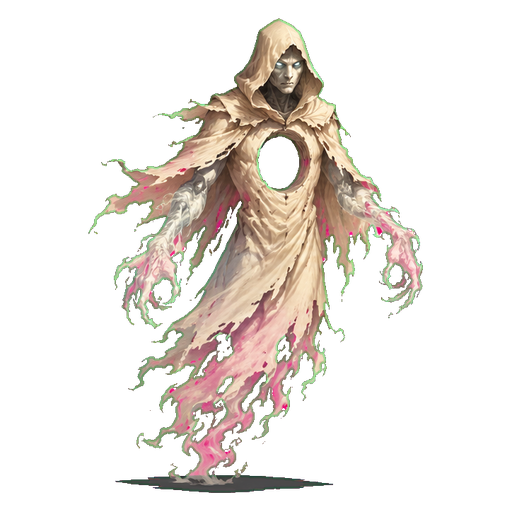
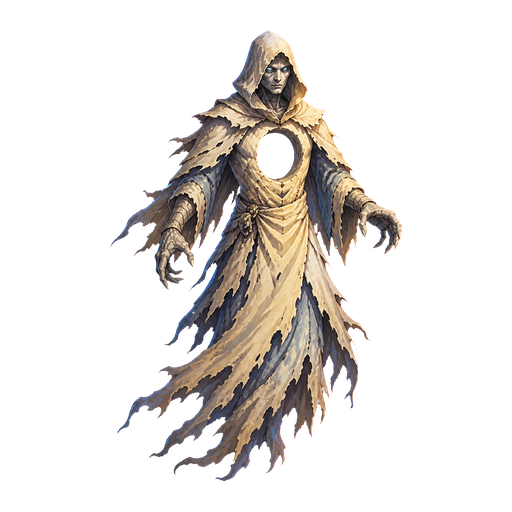
Add complete realm character artwork

Changed region(s): [[0.1875, 0.0312, 0.8438, 0.9688], [0.2188, 0.8125, 0.25, 0.8438], [0.1562, 0.4375, 0.1875, 0.4688]]

diff --git a/public/index.html b/public/index.html
@@ -148,6 +148,16 @@ body{
   box-shadow:0 6px 0 rgba(0,0,0,.3);position:relative;overflow:hidden;
 }
 .realm-hero .big{font-size:54px;display:block;filter:drop-shadow(0 4px 4px rgba(0,0,0,.3))}
+.realm-character{display:inline-flex;align-items:center;justify-content:center;position:relative;isolation:isolate;vertical-align:middle}
+.realm-character-emoji{position:absolute;inset:0;z-index:0;display:flex;align-items:center;justify-content:center;line-height:1}
+.realm-character-image{position:absolute;inset:0;z-index:1;opacity:0;background-image:var(--realm-character-art);background-repeat:no-repeat;background-position:center;background-size:contain;transition:opacity .12s}
+.realm-character.art-ready .realm-character-image{opacity:1}
+.realm-character.art-ready .realm-character-emoji{visibility:hidden}
+.realm-character-probe{display:none}
+.realm-bubble .realm-character{width:72px;height:72px;font-size:30px}
+.realm-hero .realm-character.big{width:132px;height:132px;margin:0 auto;display:flex;font-size:54px}
+.shop-item .em .realm-character{width:54px;height:54px;font-size:28px}
+.avatar-line .realm-character,.citem.deco .realm-character{width:44px;height:44px;font-size:28px}
 .realm-hero h2{font-family:var(--display);font-size:26px;font-weight:800;margin:4px 0 2px}
 .realm-hero .fam{font-weight:800;opacity:.9}
 .strategy-box{
@@ -564,6 +574,14 @@ const REALMS = {
      hint:(a,b)=>{const n=a===7?b:a;return `Split it! Five ${n}s = ${n*5}, two ${n}s = ${n*2}. ${n*5} + ${n*2} = <b>${n*7}</b>`}},
 };
 
+/* Keep the emoji underneath until the transparent PNG has loaded successfully. */
+function realmCharacter(fam, cls=''){
+  const r=REALMS[fam];
+  if(!r) return '<span class="realm-character"><span class="realm-character-emoji">❓</span></span>';
+  const art=`art/realm/pet-${fam}.png`;
+  return `<span class="realm-character ${cls}" role="img" aria-label="${r.petName}" style="--realm-character-art:url('${art}')"><span class="realm-character-emoji" aria-hidden="true">${r.pet}</span><span class="realm-character-image" aria-hidden="true"></span><img class="realm-character-probe" src="${art}" alt="" onload="this.parentElement.classList.add('art-ready')" onerror="this.remove()"></span>`;
+}
+
 /* ---------- camp build grid ---------- */
 const CAMP_COLS = 10, CAMP_ROWS = 6;
 const DUPE_PRICE = 20;
@@ -959,7 +977,7 @@ function renderMap(){
     const node=document.createElement('div');
     node.className=`realm-node ${i%2===0?'left':'right'} ${isUnlocked?'':'locked'} ${isHere?'here':''}`;
     node.innerHTML=`
-      <div class="realm-bubble" style="background:${r.color}">${isUnlocked?r.pet:'🔒'}
+      <div class="realm-bubble" style="background:${r.color}">${isUnlocked?realmCharacter(fam):'🔒'}
         ${state.realms[fam].conquered?'<div class="badge">✓</div>':''}
       </div>
       <div class="meta">
@@ -998,7 +1016,7 @@ function openRealm(fam){
   $('realm-title-top').textContent=r.name;
   $('realm-body').innerHTML=`
     <div class="realm-hero" style="background:linear-gradient(160deg, ${r.color}, ${r.color}CC)">
-      <span class="big">${r.pet}</span>
+      ${realmCharacter(fam,'big')}
       <h2>${r.name}</h2>
       <div class="fam">The ×${fam} family • ${r.petName}</div>
       <div class="strategy-box">🧠 <b>Realm secret:</b> ${r.strategy}</div>
@@ -1610,15 +1628,16 @@ const SHOP = [
   {id:'bigtent',type:'camp',em:'🎪',name:'Festival Tent',price:150,x:8,y:54},
 ];
 function realmBuddies(){
-  return REALM_ORDER.map(f=>({id:'pet'+f,type:'buddy',em:REALMS[f].pet,name:REALMS[f].petName.split(' the ')[0],price:0,fam:f,locked:!state.realms[f].conquered}));
+  return REALM_ORDER.map(f=>({id:'pet'+f,type:'buddy',em:REALMS[f].pet,art:`art/realm/pet-${f}.png`,name:REALMS[f].petName.split(' the ')[0],price:0,fam:f,locked:!state.realms[f].conquered}));
 }
 function avatarStr(){
   const hat=SHOP.find(i=>i.id===state.equipped.hat);
   let buddy=SHOP.find(i=>i.id===state.equipped.buddy);
   if(!buddy && state.equipped.buddy && state.equipped.buddy.startsWith('pet')){
-    const f=+state.equipped.buddy.slice(3); if(REALMS[f]) buddy={em:REALMS[f].pet};
+    const f=+state.equipped.buddy.slice(3); if(REALMS[f]) buddy={em:REALMS[f].pet,fam:f};
   }
-  return `${hat?hat.em:''}🧗${buddy?' '+buddy.em:''}`;
+  const buddyVisual=buddy?(buddy.fam!==undefined?realmCharacter(buddy.fam):buddy.em):'';
+  return `${hat?hat.em:''}🧗${buddyVisual?' '+buddyVisual:''}`;
 }
 /* ---------- placeable pieces ---------- */
 function allPieces(){
@@ -1859,7 +1878,7 @@ function renderCamp(){
     const pr = i.locked ? '🔒 Conquer realm' : isOwned ? (equipped?'Equipped ✓':'Tap to equip') : `💎 ${i.price}`;
     return `<button class="shop-item ${isOwned?'owned':''} ${equipped?'equipped':''} ${cant?'cant':''}"
       onclick="shopTap('${i.id}','${i.type}',${i.price},${!!i.locked})">
-      <span class="em">${i.em}</span><span class="nm">${i.name}</span><span class="pr">${pr}</span></button>`;
+      <span class="em">${i.fam!==undefined?realmCharacter(i.fam):i.em}</span><span class="nm">${i.name}</span><span class="pr">${pr}</span></button>`;
   };
   const renderPiece=(p)=>{
     const free=pieceFree(p.id), out=piecePlaced(p.id);

diff --git a/test/headless.js b/test/headless.js
@@ -163,6 +163,7 @@ async function boot(saveObj) {
     'camp-trophy-x8.png':[192,192], 'camp-trophy-x7.png':[384,384],
     'camp-trophy-summit.png':[192,192],
   };
+  const realmCharacters=Object.fromEntries(Array.from({length:13},(_,f)=>[`pet-${f}.png`,[512,512]]));
   const pngInfo=name=>{
     const buf=fs.readFileSync(require('path').join(PUBLIC,'art','camp',name));
     return {w:buf.readUInt32BE(16),h:buf.readUInt32BE(20),colorType:buf[25]};
@@ -207,12 +208,25 @@ async function boot(saveObj) {
      }));
   ok('all thirteen Batch 5 trophy sprites are RGBA PNGs',
      Object.keys(batch5).every(n=>pngInfo(n).colorType===6));
+  const realmPngInfo=name=>{
+    const buf=fs.readFileSync(require('path').join(PUBLIC,'art','realm',name));
+    return {w:buf.readUInt32BE(16),h:buf.readUInt32BE(20),colorType:buf[25]};
+  };
+  ok('all thirteen realm character files exist at the locked 512px square size',
+     Object.entries(realmCharacters).every(([name,size])=>{
+       const p=require('path').join(PUBLIC,'art','realm',name);
+       if(!fs.existsSync(p)) return false;
+       const info=realmPngInfo(name); return info.w===size[0] && info.h===size[1];
+     }));
+  ok('all thirteen realm characters are transparent RGBA PNGs',
+     Object.keys(realmCharacters).every(n=>realmPngInfo(n).colorType===6));
   const swSource=fs.readFileSync(require('path').join(PUBLIC,'sw.js'),'utf8');
   ok('offline shell pre-caches every Batch 1 asset', Object.keys(batch1).every(n=>swSource.includes(`./art/camp/${n}`)));
   ok('offline shell pre-caches every Batch 2 asset', Object.keys(batch2).every(n=>swSource.includes(`./art/camp/${n}`)));
   ok('offline shell pre-caches every Batch 3 asset', Object.keys(batch3).every(n=>swSource.includes(`./art/camp/${n}`)));
   ok('offline shell pre-caches every Batch 4 asset', Object.keys(batch4).every(n=>swSource.includes(`./art/camp/${n}`)));
   ok('offline shell pre-caches every Batch 5 asset', Object.keys(batch5).every(n=>swSource.includes(`./art/camp/${n}`)));
+  ok('offline shell pre-caches every realm character', Object.keys(realmCharacters).every(n=>swSource.includes(`./art/realm/${n}`)));
   ok('runtime cache never stores missing future-batch art', swSource.includes('if (res.ok)'));
   fresh.win.showScreen('screen-camp');
   ok('first camp visit grants the free starter pair',
@@ -469,6 +483,11 @@ async function boot(saveObj) {
   const tentVisual = win.pieceVisual('shelter-2');
   ok('piece markup keeps an emoji fallback', tentVisual.includes('⛺'));
   ok('piece markup points at the stable semantic PNG', tentVisual.includes('art/camp/camp-shelter-t2.png'));
+  const poofVisual = ev('realmCharacter(0)');
+  ok('realm character markup keeps an emoji fallback', poofVisual.includes('👻'));
+  ok('realm character markup points at the stable semantic PNG', poofVisual.includes('art/realm/pet-0.png'));
+  ev("state.equipped.buddy='pet1'");
+  ok('equipped realm buddy uses its PNG-backed character markup', ev('avatarStr()').includes('art/realm/pet-1.png'));
 
   ev("state.placed=[{t:'shelter-2',x:0,y:0,k:false},{t:'ground-stone-path',x:5,y:4,k:false},{t:'fire-2',x:1,y:2,k:false},{t:'light-1',x:0,y:4,k:false}]");
   win.renderCamp();

diff --git a/public/sw.js b/public/sw.js
@@ -1,5 +1,5 @@
 /* Times Quest service worker — offline-first app shell */
-const CACHE = 'times-quest-v14';
+const CACHE = 'times-quest-v15';
 const SHELL = [
   './',
   './index.html',
@@ -8,6 +8,19 @@ const SHELL = [
   './icons/icon-512.png',
   './icons/icon-maskable-512.png',
   './icons/apple-touch-icon.png',
+  './art/realm/pet-0.png',
+  './art/realm/pet-1.png',
+  './art/realm/pet-2.png',
+  './art/realm/pet-3.png',
+  './art/realm/pet-4.png',
+  './art/realm/pet-5.png',
+  './art/realm/pet-6.png',
+  './art/realm/pet-7.png',
+  './art/realm/pet-8.png',
+  './art/realm/pet-9.png',
+  './art/realm/pet-10.png',
+  './art/realm/pet-11.png',
+  './art/realm/pet-12.png',
   './art/camp/bg-camp-dusk.png',
   './art/camp/camp-shelter-t1.png',
   './art/camp/camp-shelter-t2.png',
